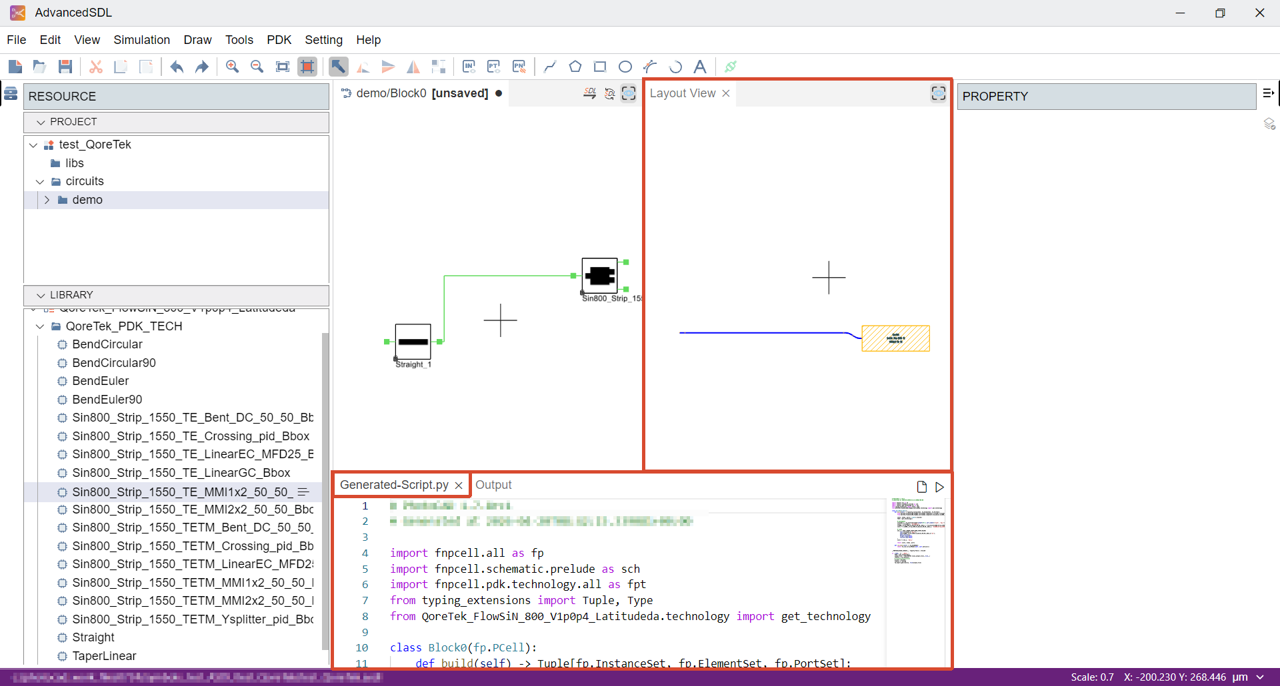
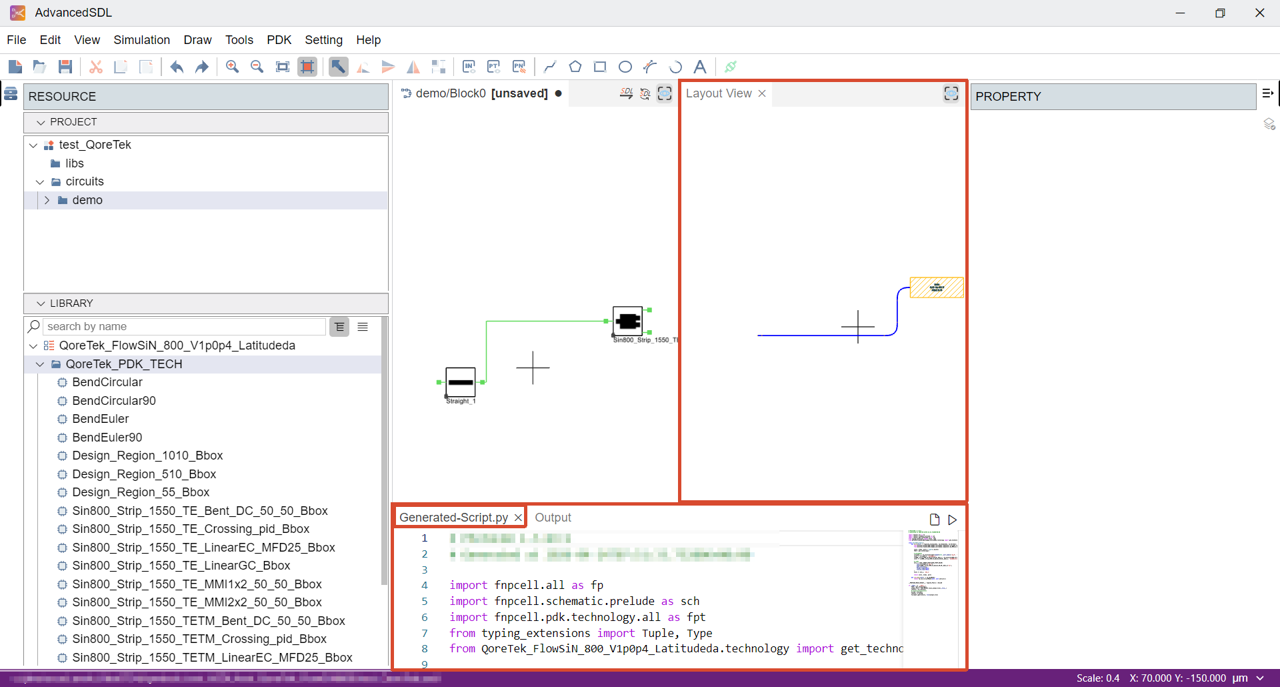
更新design region截图

diff --git a/docs/source/component_list/bb_Design_Region.rst b/docs/source/component_list/bb_Design_Region.rst
@@ -1,0 +1,14 @@
+Design Region
+##########################################################
+
+Design_Region_55_Bbox
+**********************************************************
+.. image:: ../images/Design_Region_55_Bbox.png
+
+Design_Region_510_Bbox
+**********************************************************
+.. image:: ../images/Design_Region_510_Bbox.png
+
+Design_Region_55_Bbox
+**********************************************************
+.. image:: ../images/Design_Region_1010_Bbox.png

diff --git a/docs/source/component_list/index.rst b/docs/source/component_list/index.rst
@@ -6,6 +6,7 @@ Component library
 
    bb_Bent_DC
    bb_Crossing
+   bb_Design_Region
    bb_LinearEC
    bb_LinearGC
    bb_MMI1x2
